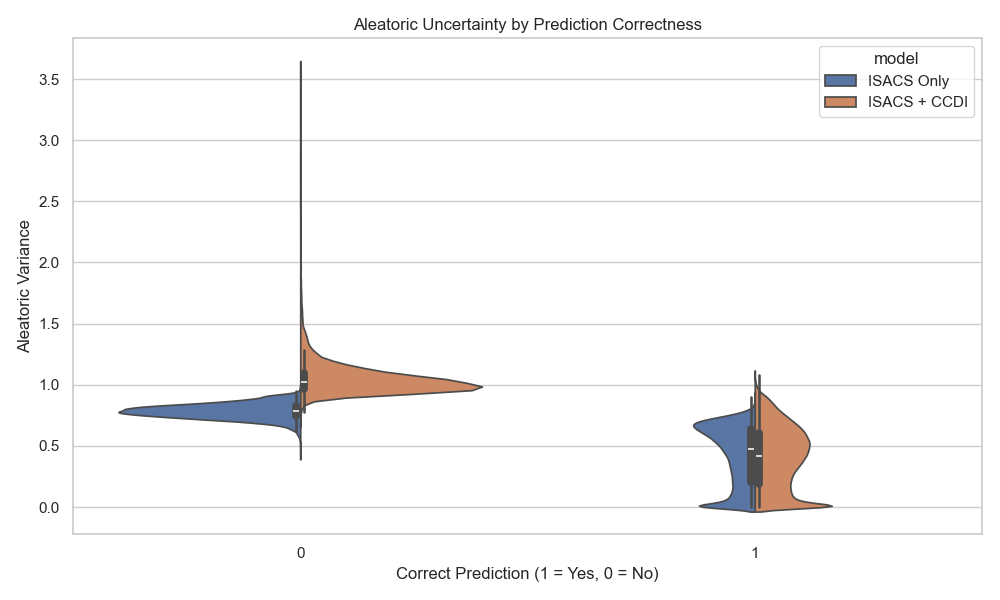
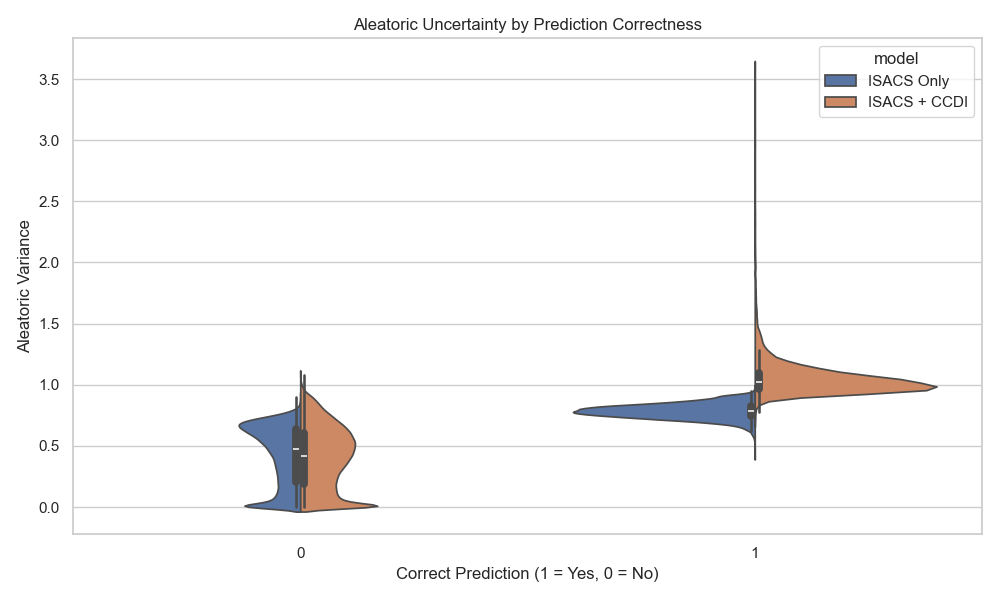
fixed uncertainty evaluation for PICA dataset as its control (0)

Changed region(s): [[0.558, 0.48, 0.93, 0.87], [0.124, 0.51, 0.496, 0.87]]

diff --git a/uncertainty_evaluation/compare_uncertainty.py b/uncertainty_evaluation/compare_uncertainty.py
@@ -4,8 +4,8 @@ import seaborn as sns
 import os
 
 # === File paths (update these to your actual locations) ===
-model_a_path = "/scratch/project/tcr_ml/gnn_release/model_2025_hetero_isacs_only/graph_level_uncertainty/uncertainty_graph_level_pica_complete.csv"
-model_b_path = "/scratch/project/tcr_ml/gnn_release/model_2025_hetero_isacs_ccdi/graph_level_uncertainty/uncertainty_graph_level_pica_complete.csv"
+model_a_path = "/scratch/project/tcr_ml/gnn_release/model_2025_hetero_isacs_ccdi/graph_level_uncertainty/uncertainty_graph_level_pica_complete.csv"
+model_b_path = "/scratch/project/tcr_ml/gnn_release/model_2025_hetero_isacs_ccdi_pica/graph_level_uncertainty/uncertainty_graph_level_pica_complete.csv"
 
 # === Output directory for saving plots ===
 output_dir = "/scratch/project/tcr_ml/gnn_release/uncertainty_evaluation/plots"
@@ -15,12 +15,12 @@ os.makedirs(output_dir, exist_ok=True)
 df_a = pd.read_csv(model_a_path)
 df_b = pd.read_csv(model_b_path)
 
-df_a["model"] = "ISACS Only"
-df_b["model"] = "ISACS + CCDI"
+df_a["model"] = "ISACS CCDI"
+df_b["model"] = "ISACS + CCDI + PICA"
 
 # Set true label (e.g., cancer = 1 for aml_zero)
-df_a["true_label"] = 1
-df_b["true_label"] = 1
+df_a["true_label"] = 0
+df_b["true_label"] = 0
 
 # Combine data
 df = pd.concat([df_a, df_b], ignore_index=True)

diff --git a/uncertainty_evaluation/evaluate_uncertainty.py b/uncertainty_evaluation/evaluate_uncertainty.py
@@ -11,7 +11,7 @@ from pathlib import Path
 
 
 
-MODEL_FILE = "/scratch/project/tcr_ml/gnn_release/model_2025_hetero_isacs_ccdi/best_model.pt"
+MODEL_FILE = "/scratch/project/tcr_ml/gnn_release/model_2025_hetero_isacs_ccdi_pica/best_model.pt"
 @torch.no_grad()
 def mc_dropout_predict(model, data, T=20):
     model.train()  # force dropout on
